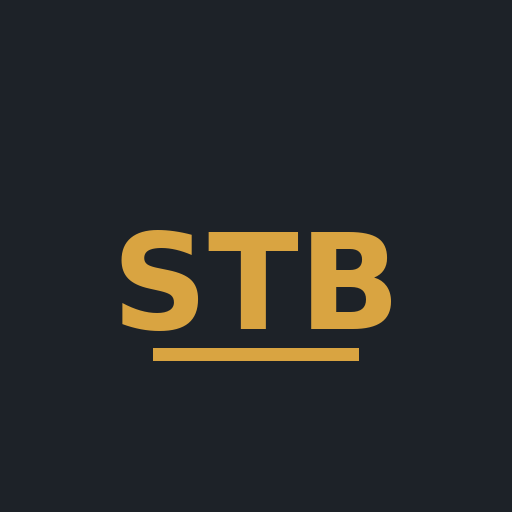
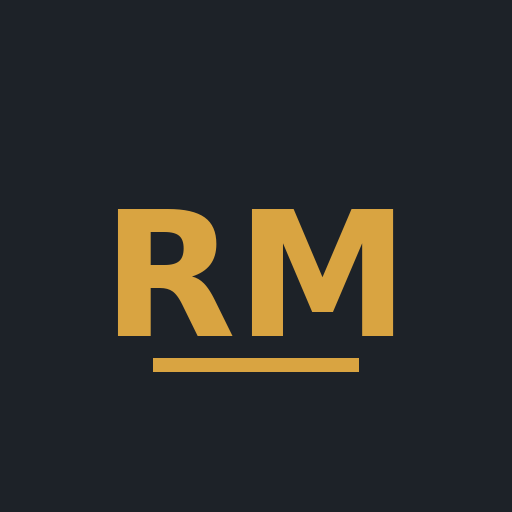
Rename app to RentManager

Changed region(s): [[0.2188, 0.4062, 0.7812, 0.75]]

diff --git a/public/index.html b/public/index.html
@@ -5,10 +5,10 @@
 <meta name="mobile-web-app-capable" content="yes">
 <meta name="apple-mobile-web-app-capable" content="yes">
 <meta name="apple-mobile-web-app-status-bar-style" content="black-translucent">
-<meta name="apple-mobile-web-app-title" content="STB">
+<meta name="apple-mobile-web-app-title" content="RentManager">
 <link rel="manifest" href="/manifest.webmanifest">
 <link rel="apple-touch-icon" href="/icon-192.png">
-<title>STB - Rental Manager</title>
+<title>RentManager</title>
 <link href="https://fonts.googleapis.com/css2?family=IBM+Plex+Sans:wght@400;500;600&display=swap" rel="stylesheet">
 <style>
 :root{--side:#1d2228;--bg:#f4f4f2;--line:#dcdcd6;--ink:#1b1f24;--mute:#66707a;--mark:#d9a441;--red:#b42318;--green:#1a7f4b}
@@ -16,7 +16,7 @@
 body{margin:0;font:14px/1.5 'IBM Plex Sans',system-ui,sans-serif;background:var(--bg);color:var(--ink)}
 .shell{display:flex;min-height:100vh}
 aside{width:220px;background:var(--side);color:#fff;display:flex;flex-direction:column;position:sticky;top:0;height:100vh;flex-shrink:0}
-.brand{padding:22px 20px 18px;font-weight:600;font-size:20px;letter-spacing:2px}
+.brand{padding:22px 20px 18px;font-weight:600;font-size:20px;letter-spacing:.3px}
 .brand small{display:block;font-size:11px;font-weight:400;letter-spacing:.5px;color:#8b95a0;margin-top:2px}
 aside nav{flex:1;display:flex;flex-direction:column}
 aside nav button{background:none;border:0;border-left:3px solid transparent;border-radius:0;color:#aab3bc;text-align:left;padding:10px 20px;font-size:14px}
@@ -66,7 +66,7 @@ tr:last-child td{border-bottom:0}
 @media(max-width:760px){
  .top{display:flex;align-items:center;gap:10px;position:sticky;top:0;z-index:20;background:var(--side);color:#fff;padding:calc(env(safe-area-inset-top) + 6px) 12px 6px}
  .top .menu{background:none;border:0;color:#fff;font-size:28px;line-height:1;padding:4px 10px;min-height:0}
- .top b{letter-spacing:2px;font-size:18px}
+ .top b{letter-spacing:.3px;font-size:18px}
  .shell{display:block}
  aside{position:fixed;z-index:40;top:0;left:0;bottom:0;width:270px;height:auto;transform:translateX(-100%);transition:transform .2s;padding-top:env(safe-area-inset-top);overflow-y:auto}
  .shell.open aside{transform:none}
@@ -164,7 +164,7 @@ const bal = n => `<span class="${n > 0 ? 'owe' : 'ok'}">${n > 0 ? 'Owes ' + kes(
 const sec = (h, body) => `<section class="sec"><h2>${h}</h2>${body}</section>`;
 const add = (h, form) => `<details class="add"><summary>${h}</summary>${form}</details>`;
 const pw = '<input name="username" placeholder="Username" required><input name="password" type="password" placeholder="Password" required>';
-const brand = '<div class="brand">STB<small>Rental manager</small></div>';
+const brand = '<div class="brand">RentManager<small>Property management</small></div>';
 
 async function render() {
   const el = $('#app');
@@ -201,7 +201,7 @@ async function render() {
     return;
   }
   const list = tabs[U.role]; tab = list.includes(tab) ? tab : list[0]; localStorage.tab = tab;
-  el.innerHTML = `<div class="shell"><div class="top"><button class="menu" onclick="toggleMenu()" aria-label="Menu">&#9776;</button><b>STB</b></div><div class="scrim" onclick="toggleMenu()"></div><aside>${brand}
+  el.innerHTML = `<div class="shell"><div class="top"><button class="menu" onclick="toggleMenu()" aria-label="Menu">&#9776;</button><b>RentManager</b></div><div class="scrim" onclick="toggleMenu()"></div><aside>${brand}
     <nav>${list.map(t => `<button class="${t === tab ? 'on' : ''}" onclick="tab='${t}';render()">${t}</button>`).join('')}</nav>
     <div class="who">${U.name}<small>${U.role}</small><a onclick="changePw()">Change password</a><a onclick="setEmail()">Email address</a><a onclick="out()">Log out</a></div></aside>
     <main><h1>${tab}</h1><div id="m">Loading...</div></main></div>`;

diff --git a/api/index.js b/api/index.js
@@ -50,7 +50,7 @@ const sendMail = async (to, subject, text) => { // Gmail with an app password
   if (!user || !pass) throw new Error('Email is not set up yet');
   try {
     await require('nodemailer').createTransport({ service: 'gmail', auth: { user, pass } })
-      .sendMail({ from: `"STB Rental Manager" <${user}>`, to, subject, text });
+      .sendMail({ from: `"RentManager" <${user}>`, to, subject, text });
   } catch (e) { console.error('Email failed:', e.message); throw new Error('The email could not be sent. Try again later.'); }
 };
 const mkUser = async (name, username, password, role, property_id = null, email = null) => {
@@ -245,7 +245,7 @@ app.post('/api/forgot', wrap(async (req, res) => { // step 1: email a 6-digit co
   const code = String(require('crypto').randomInt(100000, 1000000));
   await Q('insert into resets(user_id,code_hash,expires,attempts,sent_at) values($1,$2,$3,0,$4) on conflict (user_id) do update set code_hash=$2, expires=$3, attempts=0, sent_at=$4',
     [u.id, bcrypt.hashSync(code, 8), Date.now() + 600000, Date.now()]);
-  await sendMail(u.email, 'Your STB password reset code', `Your password reset code is ${code}.\n\nIt expires in 10 minutes. If you did not ask for it, ignore this email.`);
+  await sendMail(u.email, 'Your RentManager password reset code', `Your password reset code is ${code}.\n\nIt expires in 10 minutes. If you did not ask for it, ignore this email.`);
   res.json(generic);
 }));
 app.post('/api/forgot/confirm', wrap(async (req, res) => { // step 2: code + new password
@@ -262,5 +262,5 @@ app.post('/api/forgot/confirm', wrap(async (req, res) => { // step 2: code + new
 
 module.exports = app;
 if (require.main === module) { // local testing: npm start
-  app.listen(process.env.PORT || 3000, () => console.log('STB running on http://localhost:3000'));
+  app.listen(process.env.PORT || 3000, () => console.log('RentManager running on http://localhost:3000'));
 }

diff --git a/public/sw.js b/public/sw.js
@@ -1,4 +1,4 @@
-const C = 'stb-v1', SHELL = ['/', '/manifest.webmanifest', '/icon-192.png', '/icon-512.png'];
+const C = 'rentmanager-v1', SHELL = ['/', '/manifest.webmanifest', '/icon-192.png', '/icon-512.png'];
 self.addEventListener('install', e => { e.waitUntil(caches.open(C).then(c => c.addAll(SHELL))); self.skipWaiting(); });
 self.addEventListener('activate', e => {
   e.waitUntil(caches.keys().then(k => Promise.all(k.filter(x => x !== C).map(x => caches.delete(x)))));
